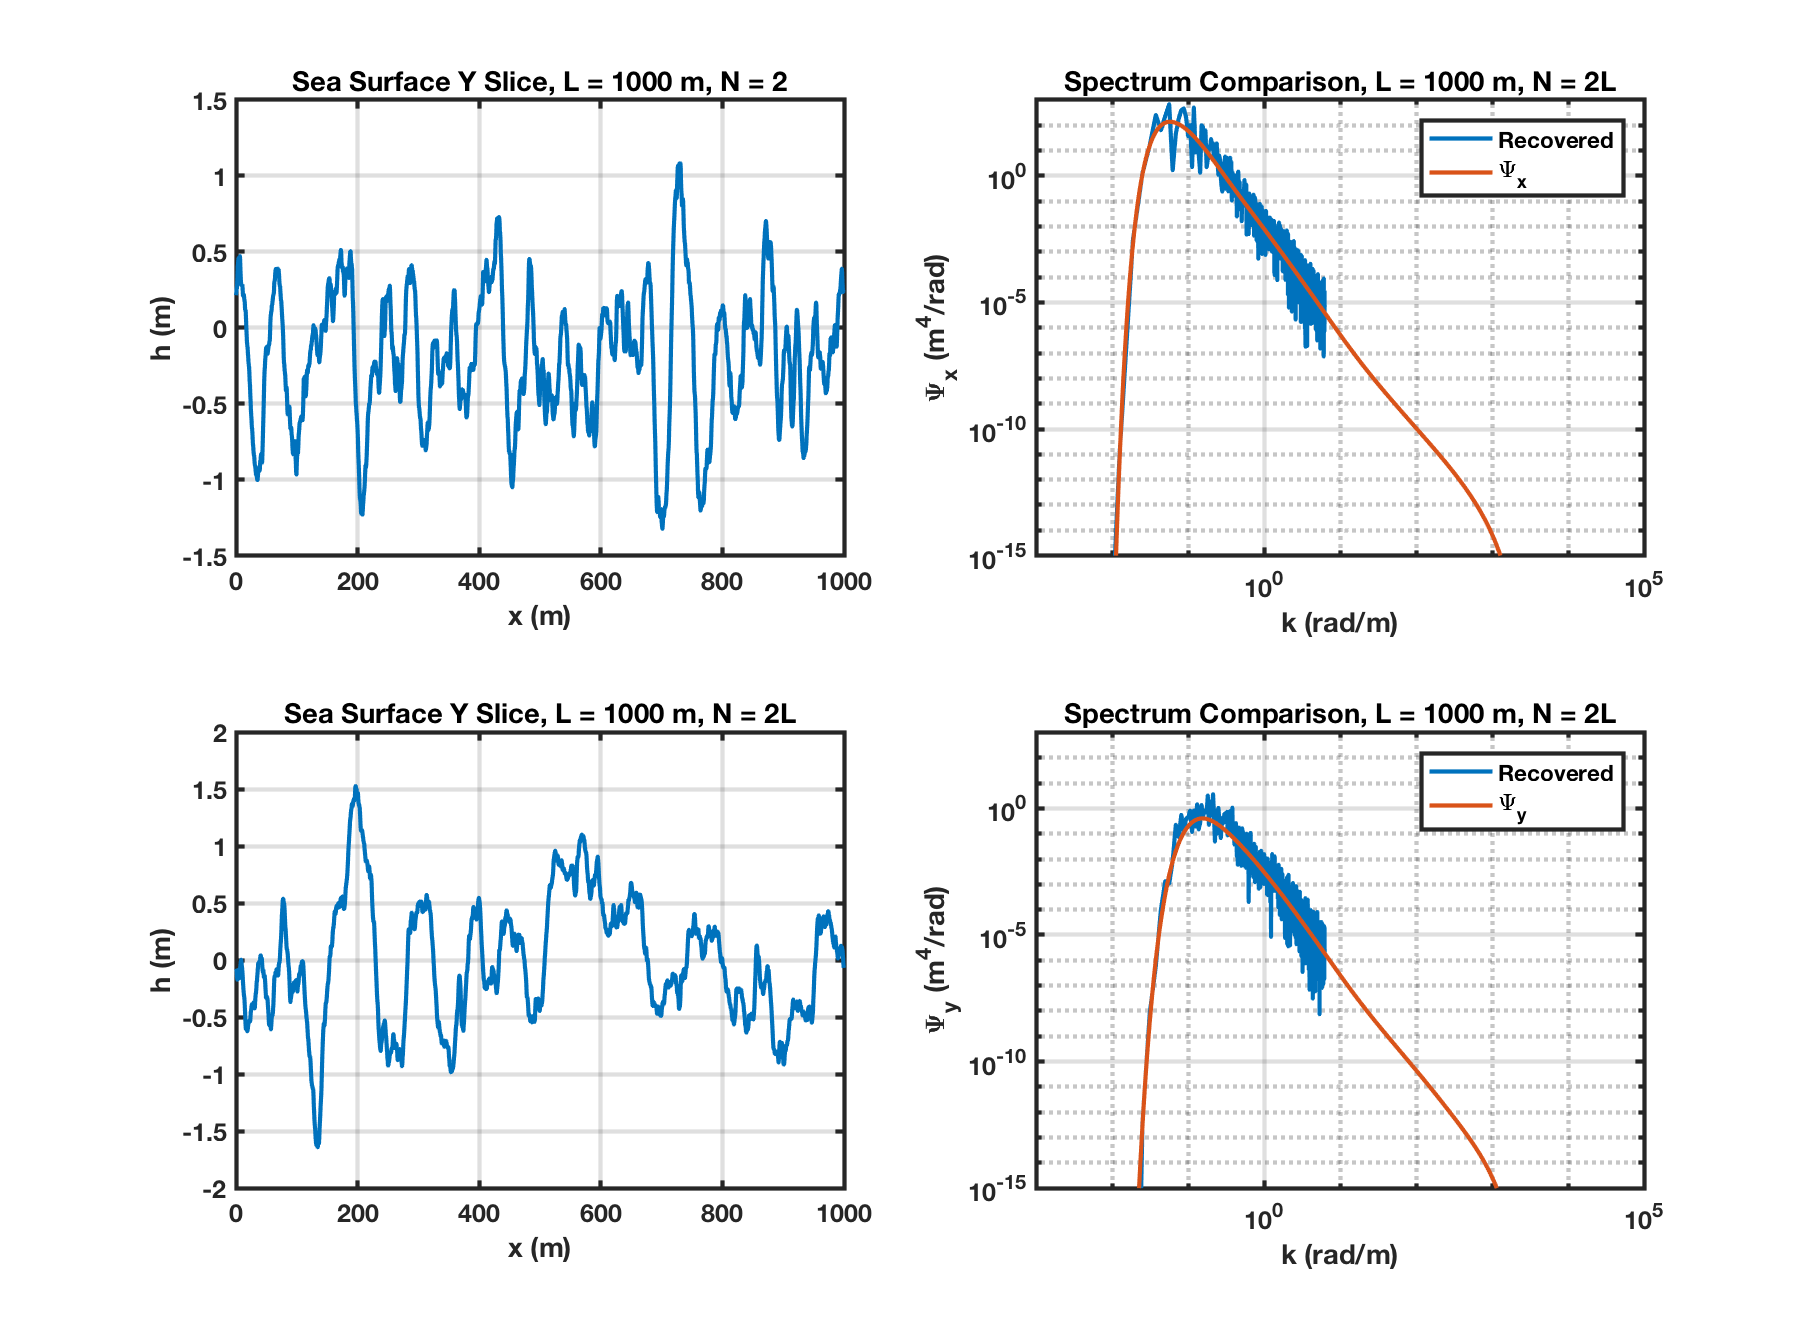
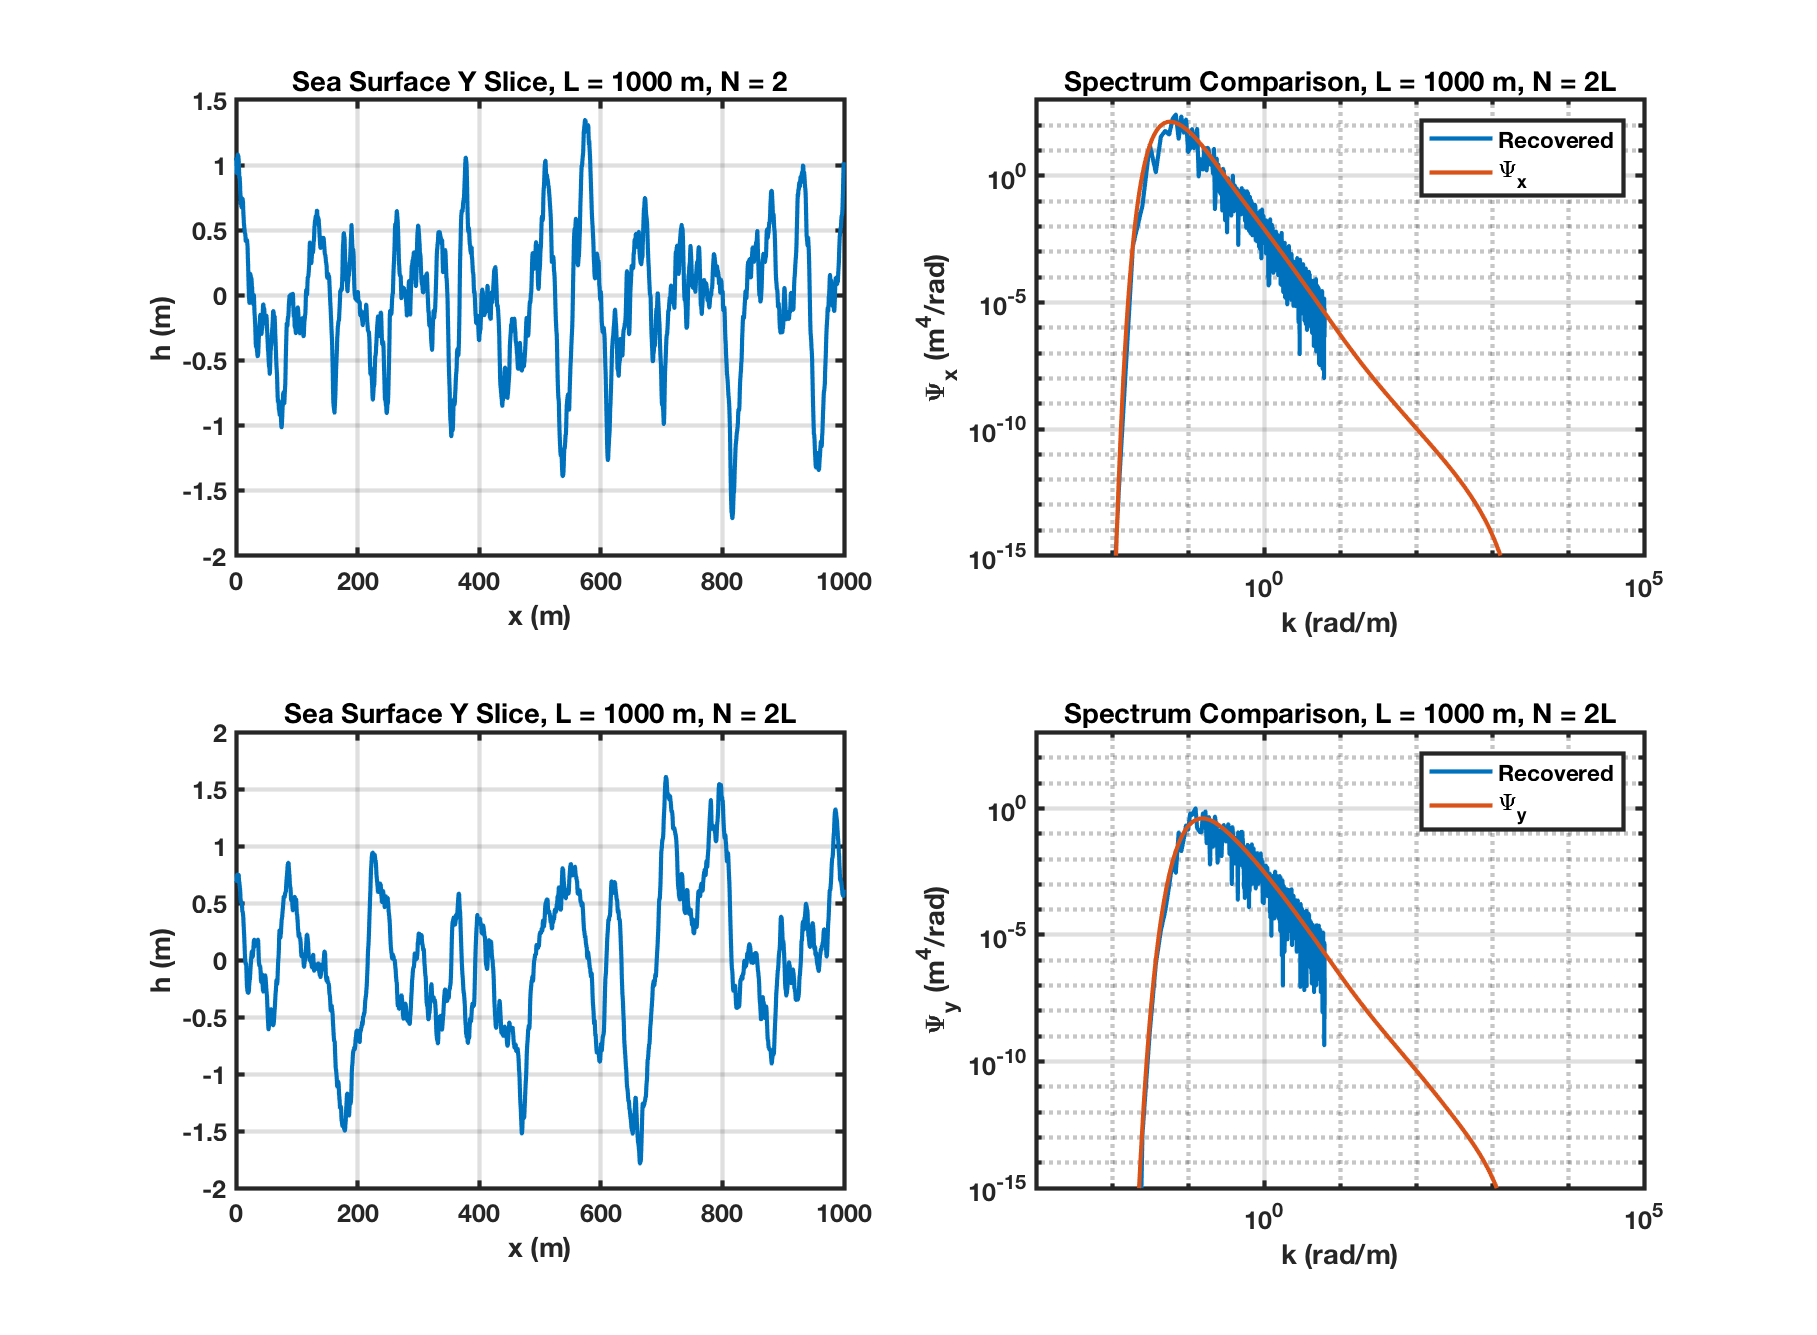
Fixed scaling to now convert to k-space correctly in PSDs

diff --git a/src/ocean_surface_generation.tex b/src/ocean_surface_generation.tex
@@ -366,7 +366,7 @@ As a final note for sampling constraints, we need to maintain integer indexing f
 The general idea is to use the power spectrum to create a realization of the sea surface in the frequency domain and then transform that to the spatial domain through an inverse Fourier transform. We will follow the procedure outlined in \cite{percival_spectra}, 
 but we need to provide some additional scale factors to account for conservation of energy.
 
-To handle discretization of the power spectrum, we use the fact that the amount of energy contained per unit interval is a constant, so that $S(k)dk = S(\omega) d\omega$. To normalize the spectrum to the specified wave number sampling interval, we simply need to multiply by $\Delta k$. Next, since we have a one-sided spectrum rather than a two-sided one, we only have half the energy present and need to divide the power spectrum by 2. With these factors included, we can define the one-sided, discrete spectrum as $S_d = \frac{S(k)\Delta k}{2}$.
+To handle discretization of the power spectrum, we use the fact that the amount of energy contained per unit interval is a constant, so that $S(k)dk = S(\omega) d\omega$. To normalize the spectrum to the specified wave number sampling interval, we simply need to multiply by $\Delta k$.
 
 To generate the frequency domain representation ($V_j$), we will take a set of Gaussian distributed random variables that are scaled  by the square root of the power spectrum and arrange them so the sequence is Hermitian, $V(k) = V^*(-k)$. Because $N$ is even, as described in Section \ref{os_label:1d_sampling_constraints}, there are special cases to handle to ensure that the sequence is Hermitian. $V_j$ only contains a single element for $k = 0$ and $k = \frac{N}{2}\Delta k$ and must be purely real at both frequencies. If we take a pair of uncorrelated Gaussian distributed random variables of length $\frac{N}{2}$ ($w$ and $u$), we can generate $V_j$ as shown in Equation \ref{os_eq:8}.
 
@@ -374,12 +374,12 @@ To generate the frequency domain representation ($V_j$), we will take a set of G
   \label{os_eq:8}   
   V_j = \begin{cases}
     \sqrt{S_0\Delta k}w_0, & j = 0 \\
-    \frac{1}{2}\sqrt{\frac{1}{2}S_j\Delta k}\left[w_j + iu_j \right], & 1 \leq j < \frac{N}{2} \\
+    \frac{1}{2}\sqrt{S_j\Delta k}\left[w_j + iu_j \right], & 1 \leq j < \frac{N}{2} \\
    \sqrt{S_{N/2}\Delta k}u_0 & j = \frac{N}{2} \\
     V_{N-j}^*, &  \frac{N}{2} < j \leq N-1 
   \end{cases} 
 \end{equation}
-The extra factor of $\frac{1}{2}$ in line 2 of Equation \ref{os_eq:8} comes from the fact that we have Hermitian symmetry and need to normalize both the expectations $\left<w_j + iu_j\right>$ and $\left<w_j - iu_j\right>$ to conserve energy. Also note that the power spectrum for frequencies $k = 0$, and $k = \frac{N}{2}$ is not divided by 2 since these are single points that are not repeated.
+The extra factor of $\frac{1}{2}$ in line 2 of Equation \ref{os_eq:8} comes from the fact that we have Hermitian symmetry and need to normalize both the expectations $\left<w_j + iu_j\right>$ and $\left<w_j - iu_j\right>$ to conserve energy.
 
 The index ordering is assumed to have $k=0$ at the first element so that the sequence will wrap in frequency at $j = \frac{N}{2} + 1$. An example sequence for $N = 8$ is shown in Table \ref{os_tab:2a}.
 \begin{table}[H]
@@ -392,13 +392,13 @@ The index ordering is assumed to have $k=0$ at the first element so that the seq
     \hline
   \bf{$j$} & \bf{$k_j$} & \bf{$V_j$} \\ \hline
   $0$ & $0$ & $\sqrt{S_{0} \Delta k}w_0$ \\ \hline
-  $1$ & $\Delta k$ & $\frac{1}{2}\sqrt{\frac{S_{1}}{2} \Delta k} \left(w_1 + iu_1 \right)$ \\ \hline
-  $2$ & $2\Delta k$ & $\frac{1}{2}\sqrt{\frac{S_{2}}{2} \Delta k} \left(w_2 + iu_2 \right)$ \\ \hline
-  $3$ & $3\Delta k$ & $\frac{1}{2}\sqrt{\frac{S_{3}}{2} \Delta k} \left(w_3 + iu_3 \right)$ \\ \hline
+  $1$ & $\Delta k$ & $\frac{1}{2}\sqrt{S_1 \Delta k} \left(w_1 + iu_1 \right)$ \\ \hline
+  $2$ & $2\Delta k$ & $\frac{1}{2}\sqrt{S_2\Delta k} \left(w_2 + iu_2 \right)$ \\ \hline
+  $3$ & $3\Delta k$ & $\frac{1}{2}\sqrt{S_3 \Delta k} \left(w_3 + iu_3 \right)$ \\ \hline
   $4$ & $4\Delta k$ & $\sqrt{S_{4} \Delta k} u_0$ \\ \hline
-  $5$ & $-3\Delta k$ & $\frac{1}{2}\sqrt{\frac{S_{3}}{2} \Delta k} \left(w_3 - iu_3 \right)$ \\ \hline
-  $6$ & $-2\Delta k$ & $\frac{1}{2}\sqrt{\frac{S_{2}}{2} \Delta k} \left(w_2 - iu_2 \right)$  \\ \hline
-  $7$ & $-\Delta k$ & $\frac{1}{2}\sqrt{\frac{S_{1}}{2} \Delta k} \left(w_1 - iu_1 \right)$ \\ \hline
+  $5$ & $-3\Delta k$ & $\frac{1}{2}\sqrt{S_3 \Delta k} \left(w_3 - iu_3 \right)$ \\ \hline
+  $6$ & $-2\Delta k$ & $\frac{1}{2}\sqrt{S_2 \Delta k} \left(w_2 - iu_2 \right)$  \\ \hline
+  $7$ & $-\Delta k$ & $\frac{1}{2}\sqrt{S_1 \Delta k} \left(w_1 - iu_1 \right)$ \\ \hline
 \end{tabular}
 \end{center}
 \end{table}
@@ -469,7 +469,7 @@ The process to generate the frequency domain representation starts by using Equa
   \label{os_eq:9a}   
   V(\alpha,j) = \begin{cases}
     \sqrt{\Psi(\alpha,j)\Delta k^2}w(0), & j = 0 \\
-    \frac{1}{2}\sqrt{\frac{1}{2}\Psi(\alpha,j)\Delta k^2}\left[w(j) + iu(j) \right], & 1 \leq j < \frac{N}{2} \\
+    \frac{1}{2}\sqrt{\Psi(\alpha,j)\Delta k^2}\left[w(j) + iu(j) \right], & 1 \leq j < \frac{N}{2} \\
    \sqrt{\Psi(\alpha,N/2)\Delta k^2}u(0) & j = \frac{N}{2} \\
     V(\alpha,N-j)^*, &  \frac{N}{2} < j \leq N-1 
   \end{cases} 
@@ -479,12 +479,12 @@ We can then generate 4 matrices of random variables ($W_1$, $W_2$, $U_1$, and $U
 
 \begin{equation}
 \label{os_eq:10}
-\mathbf{A}(m,n) = \frac{1}{4}\sqrt{\frac{1}{2}\Psi(m+1,n+1)\Delta k^2}\left[W_1(m,n) + iW_2(m,n) \right]
+\mathbf{A}(m,n) = \frac{1}{4}\sqrt{Psi(m+1,n+1)\Delta k^2}\left[W_1(m,n) + iW_2(m,n) \right]
 \end{equation}
 
 \begin{equation}
 \label{os_eq:11}
-\mathbf{B}(m,n) = \frac{1}{4}\sqrt{\frac{1}{2}\Psi(m+ 1,n+\frac{N}{2} +1)\Delta k^2}\left[W_1(m,n) + iW_2(m,n) \right]
+\mathbf{B}(m,n) = \frac{1}{4}\sqrt{\Psi(m+ 1,n+\frac{N}{2} +1)\Delta k^2}\left[W_1(m,n) + iW_2(m,n) \right]
 \end{equation}
 
 In these equations, the offsets in indexing $\Psi$ ensure that the correct spectral component is used. As with Equation \ref{os_eq:8}, we have an extra scale factor to account for the additional expectations. Because we are working in 2-dimensional space (both $x$ and $y$), we have a factor of $\frac{1}{4}$ instead of $\frac{1}{2}$.

diff --git a/mfiles/generateOceanSurfaceTestPlots.m b/mfiles/generateOceanSurfaceTestPlots.m
@@ -50,7 +50,7 @@ ylabel('h (m)')
 tstring = sprintf('Sea Surface, L = %d km, N = %dL',L1/1000,N1/L1);
 title(tstring);
 
-Pxx1 = periodogram(real(h1),[],'onesided',N1,1/dx1);
+Pxx1 = periodogram(real(h1),[],'onesided',N1,1/dx1)/(2*pi);
 
 subplot(2,2,2)
 loglog(k1(1:end-1),Pxx1(1:N1/2),'LineWidth',2);
@@ -79,7 +79,7 @@ ylabel('h (m)')
 tstring = sprintf('Sea Surface, L = %d km, N = %dL',L1/1000,N3/L1);
 title(tstring);
 
-Pxx3 = periodogram(real(h3),[],'onesided',N3,1/dx3);
+Pxx3 = periodogram(real(h3),[],'onesided',N3,1/dx3)/(2*pi);
 
 subplot(2,2,4)
 loglog(k3(1:end-1),Pxx3(1:N3/2),'LineWidth',2);
@@ -111,7 +111,7 @@ tstring = sprintf('Sea Surface, L = %d km, N = %dL',L2/1000,N2/L2);
 title(tstring);
 xlim([0 1000])
 
-Pxx1 = periodogram(real(h2),[],'onesided',N2,1/dx2);
+Pxx1 = periodogram(real(h2),[],'onesided',N2,1/dx2)/(2*pi);
 
 subplot(2,2,2)
 loglog(k2(1:end-1),Pxx1(1:N2/2),'LineWidth',2);
@@ -141,7 +141,7 @@ tstring = sprintf('Sea Surface, L = %d km, N = %dL',L2/1000,N4/L2);
 title(tstring);
 xlim([0 1000])
 
-Pxx4 = periodogram(real(h4),[],'onesided',N4,1/dx4);
+Pxx4 = periodogram(real(h4),[],'onesided',N4,1/dx4)/(2*pi);
 
 subplot(2,2,4)
 loglog(k4(1:end-1),Pxx1(1:N4/2),'LineWidth',2);

diff --git a/mfiles/generateSeaSurface2D.m b/mfiles/generateSeaSurface2D.m
@@ -48,8 +48,8 @@ for u = 1:N/2-1
         va = v+1;
         ub = u + 1;
         vb = v + N/2 + 1;
-        Va(u,v) = 1/4*sqrt(S(ua,va)/2*dk^2)*(W1(u,v) + 1i*W2(u,v));
-        Vb(u,v) = 1/4*sqrt(S(ub,vb)/2*dk^2)*(W3(u,v) + 1i*W4(u,v));
+        Va(u,v) = 1/4*sqrt(S(ua,va)*dk^2)*(W1(u,v) + 1i*W2(u,v));
+        Vb(u,v) = 1/4*sqrt(S(ub,vb)*dk^2)*(W3(u,v) + 1i*W4(u,v));
     end
 end
 
@@ -74,8 +74,8 @@ VyN2 = [];
 Vx0(1) = 0;
 Vy0(1) = 0;
 for(j = 2:N/2)
-    Vx0(j) = 1/2*sqrt(S(1,j)/2*dk^2)*(w1(j) + 1i*u1(j));
-    Vy0(j) = 1/2*sqrt(S(j,1)/2*dk^2)*(w2(j) + 1i*u2(j));
+    Vx0(j) = 1/2*sqrt(S(1,j)*dk^2)*(w1(j) + 1i*u1(j));
+    Vy0(j) = 1/2*sqrt(S(j,1)*dk^2)*(w2(j) + 1i*u2(j));
 end
 Vx0(N/2+1) = sqrt(S(1,N/2+1)*dk^2)*u1(1);
 Vy0(N/2+1) = sqrt(S(N/2+1,1)*dk^2)*u2(1);
@@ -100,8 +100,8 @@ Vx2(1) = sqrt(S(N/2+1,1)*dk^2)*w3(1);
 Vy2(1) = sqrt(S(1,N/2+1)*dk^2)*w4(1);
 
 for(j = 2:N/2)
-    Vx2(j) = 1/2*sqrt(S(N/2+1,j)/2*dk^2)*(w3(j) + 1i*u3(j));
-    Vy2(j) = 1/2*sqrt(S(j,N/2+1)/2*dk^2)*(w4(j) + 1i*u4(j));
+    Vx2(j) = 1/2*sqrt(S(N/2+1,j)*dk^2)*(w3(j) + 1i*u3(j));
+    Vy2(j) = 1/2*sqrt(S(j,N/2+1)*dk^2)*(w4(j) + 1i*u4(j));
 end
 
 Vx2(N/2+1) = sqrt(S(N/2+1,N/2+1)*dk^2)*u4(1);

diff --git a/mfiles/create2DOceanSurfaces.m b/mfiles/create2DOceanSurfaces.m
@@ -30,7 +30,7 @@ minTime = 9e10;
 maxTime = 0;
 avgTime = 0;
 totalTime = 0;
-
+totalRMS = 0;
 %loop over the number of requested surfaces
     for counter = 1:M
         
@@ -70,6 +70,11 @@ totalTime = 0;
         h5writeatt(fname,'/surface','wave height (m)' ,max(h1) - min(h1));
         h5writeatt(fname,'/surface','mean (m)' ,mean(h1));
         
+        if (totalRMS == 0)
+            totalRMS = std(h1);
+        else
+            totalRMS = sqrt((totalRMS^2 + var(h1))/2);
+        end
         %get the final time
         t2 = cputime-t1;
         
@@ -85,7 +90,9 @@ totalTime = 0;
         
         %print the timing info
         dispstring = sprintf('Total Time: %0.2f s, Average Time: %0.2f s, Max Time: %0.2f s, Min Time; %0.2f s',totalTime,avgTime,maxTime,minTime);
+        dispstring2 = sprintf('Current RMS: %0.2f m, Total RMS: %0.2fm',std(h1), totalRMS);
         disp(dispstring);
+        disp(dispstring2);
     end
 
 end

diff --git a/mfiles/generateOceanSurface2DTestPlots.m b/mfiles/generateOceanSurface2DTestPlots.m
@@ -27,6 +27,7 @@ if mod(N,2) ~= 0
 end
 
 dx = L/N;
+dk = 2*pi/L;
 U10 = 10;
 age = 0.84;
 
@@ -105,8 +106,10 @@ Sx = Elfouhaily2D(k1,zeros(size(k1)),U10,age);
 Sy = Elfouhaily2D(k1,pi/2*ones(size(k1)),U10,age);
 S1 = Elfouhaily(k1,U10,age);
 
-Psi = fftshift(fft2(h))*(dx/(2*N));
-Psi = (abs(Psi)).^2;
+%estimate the power spectrum, need to scale by 1/2pi to convert from
+%spatial frequency to k-space
+Psi = fftshift(fft2(h))/(2*pi);
+Psi = 2*dx^2/N^2*abs(Psi).^2;
 Psiy = Psi(N/2+1,:);
 Psix = Psi(:,N/2+1);
 

diff --git a/mfiles/testFFTScaling.m b/mfiles/testFFTScaling.m
@@ -1,0 +1,30 @@
+N = 100000;
+L = 500;
+
+dt = L/N;
+df = 1/L;
+
+t = (0:N-1)*dt;
+f = (0:N/2)*df;
+
+sig1 = 0.5*cos(2*pi*15*t);
+sig2 = sig1 + 2*sin(2*pi*21*t);
+sig3 = sig2 - 4*cos(2*pi*45*t);
+
+S1 = 2*abs(fft(sig1))/N;
+S2 = 2*abs(fft(sig2))/N;
+S3 = 2*abs(fft(sig3))/N;
+
+[S4,F] = periodogram(sig3,[],'onesided',length(sig3),1/dt);
+
+S5 = fft(sig3);
+S5 = 2*dt/N*abs(S5(1:N/2+1)).^2;
+
+figure
+subplot(2,1,1)
+plot(f,S5);
+grid on;
+
+subplot(2,1,2)
+plot(F,S4);
+grid on

diff --git a/mfiles/generateSeaSurface.m b/mfiles/generateSeaSurface.m
@@ -23,7 +23,7 @@ u = randn(1,N/2);
 
 V(1) = sqrt(S(1)*dk)*w(1);
 for(j = 2:N/2)
-    V(j) = 1/2*sqrt(S(j)/2*dk)*(w(j) + 1i*u(j));
+    V(j) = 1/2*sqrt(S(j)*dk)*(w(j) + 1i*u(j));
 end
 V(N/2+1) = sqrt(S(N/2+1)*dk)*u(1);
 
